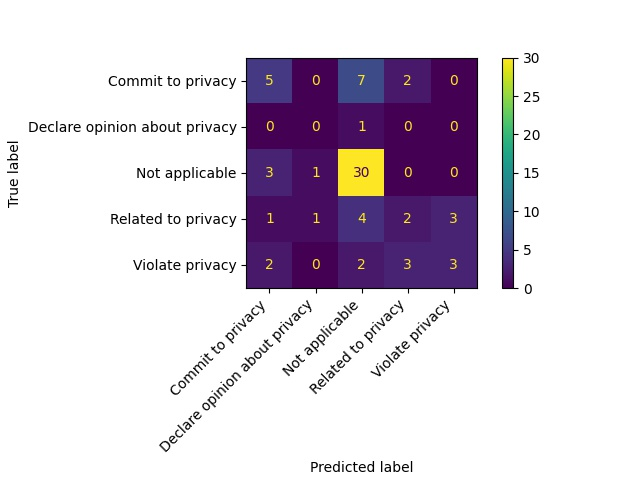
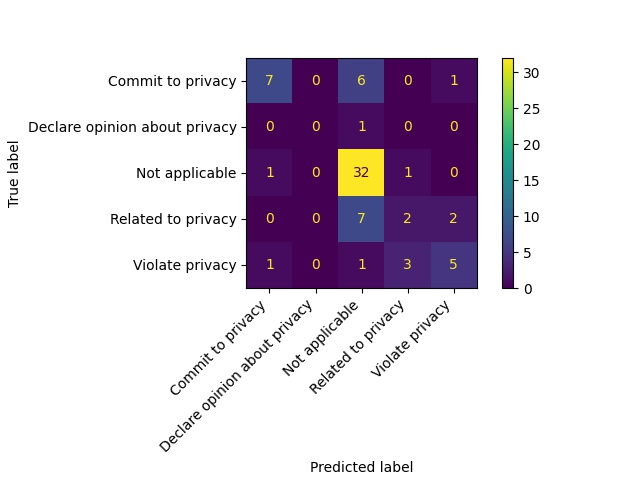
unigram sgd test - nice resultsgit add *

diff --git a/AIclassifier.py b/AIclassifier.py
@@ -69,13 +69,13 @@ def create_vectors_list(sents, conversion_dict):
         sent_vector = []
         for token in sent_doc:  
             if token.lower() not in conversion_dict: 
-                #sent_tokens_list.append("unk")
-                #unk_count += 1
-                pass
+                sent_tokens_list.append("unk")
+                unk_count += 1
+                #pass
             else:
                 print(token)
                 sent_tokens_list.append(token.lower())
-                sent_vector = numpy.append(sent_vector, conversion_dict[sent_tokens_list[-1]]) # outside else to go back to considering unk 
+            sent_vector = numpy.append(sent_vector, conversion_dict[sent_tokens_list[-1]]) # outside else to go back to considering unk 
             if len(sent_vector) > 0:
                 sent_vector = sent_vector.astype(int)
         for bigram in sent_bigram:
@@ -96,9 +96,9 @@ def create_vectors_list(sents, conversion_dict):
         
     #print("Unk count:", unk_count)
     #print(vectors_list)
-    #return vectors_list
+    return vectors_list
     #return sent_bigrams_vector
-    return sent_mixed_vector
+    #return sent_mixed_vector
 
 ####
 # MAIN
@@ -175,17 +175,17 @@ print("Length of the dictionary of word representations:",len(words_to_numbers))
 # count frequency before and after removing unknown words - ??? - ASK GABRIEL!!
 # checked that it seems ok
 
-#train_vectors_list = create_vectors_list(sents_train, words_to_numbers)
-#dev_vectors_list = create_vectors_list(sents_dev, words_to_numbers)
-#test_vectors_list = create_vectors_list(sents_test, words_to_numbers)
+train_vectors_list = create_vectors_list(sents_train, words_to_numbers)
+dev_vectors_list = create_vectors_list(sents_dev, words_to_numbers)
+test_vectors_list = create_vectors_list(sents_test, words_to_numbers)
 
 #train_vectors_list = create_vectors_list(sents_train, bigrams_to_numbers)
 #dev_vectors_list = create_vectors_list(sents_dev, bigrams_to_numbers)
 #test_vectors_list = create_vectors_list(sents_test, bigrams_to_numbers)
 
-train_vectors_list = create_vectors_list(sents_train, mixed_to_numbers)
-dev_vectors_list = create_vectors_list(sents_dev, mixed_to_numbers)
-test_vectors_list = create_vectors_list(sents_test, mixed_to_numbers)
+#train_vectors_list = create_vectors_list(sents_train, mixed_to_numbers)
+#dev_vectors_list = create_vectors_list(sents_dev, mixed_to_numbers)
+#test_vectors_list = create_vectors_list(sents_test, mixed_to_numbers)
 
 # COUNT STATISTICS - HOW MANY WORDS WERE CONSIDERED UNK, AND HOW MANY OF EACH WORD
 
@@ -211,7 +211,7 @@ test_labels_primary = create_labels_array(labels_test)
 
 # Configurations
 # ADABOOST
-adaclassifier = AdaBoostClassifier(n_estimators=100, learning_rate=0.5) # n_est 25, 50, 75, 100,200, 300 lr 0.5, 1
+#adaclassifier = AdaBoostClassifier(n_estimators=100, learning_rate=0.5) # n_est 25, 50, 75, 100,200, 300 lr 0.5, 1
 # LINEAR REGRESSION
 #lin_reg = LinearRegression() # it is not discrete!!
 # RIDGE REGRESSION CLASSIFIER
@@ -306,7 +306,7 @@ path='output/AI Classifier/1labelSGDPredictionsStatsTest.txt'
 os.makedirs(os.path.dirname(path), exist_ok=True)
 with open(path, 'w') as file:
     #print("Performance measures - Unigram Dictionary \n", file=file)
-    print("Performance measures - Mixed Dictionary\n", file=file)
+    print("Performance measures - Unigram Dictionary\n", file=file)
     #print("Performance measures - Bigram Dictionary\n", file=file)
 #write_output_stats_file(path, "Mixed", test_labels_primary, predictions, labels)
 #write_output_stats_file(path, "Dev", dev_labels_primary, predictions, labels)
